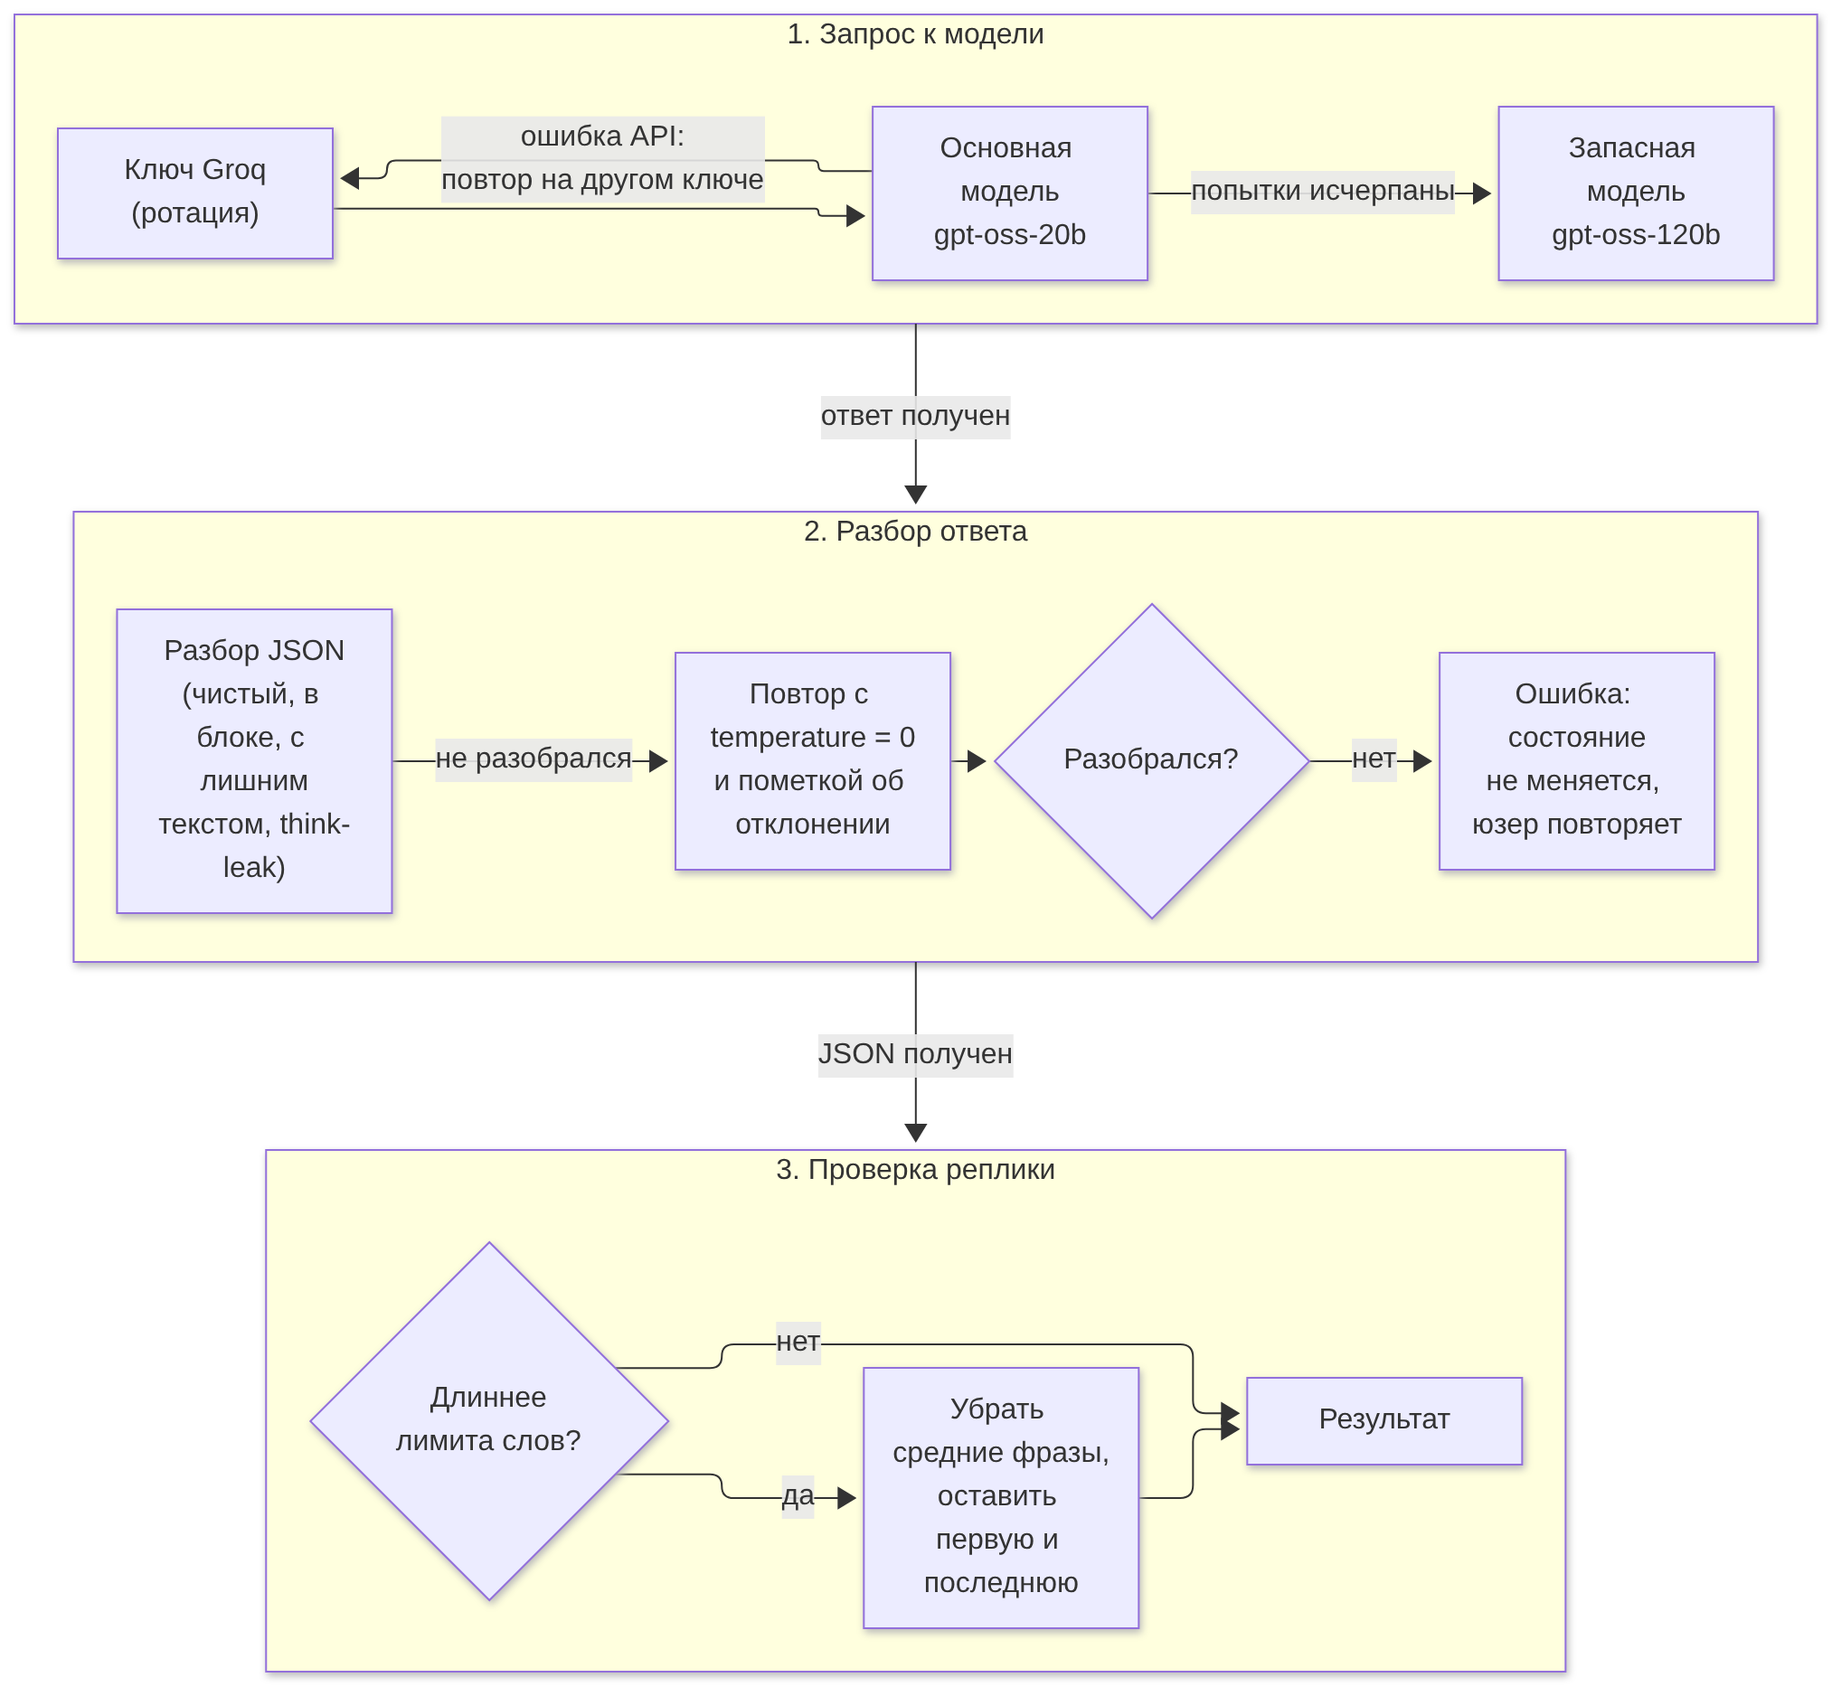
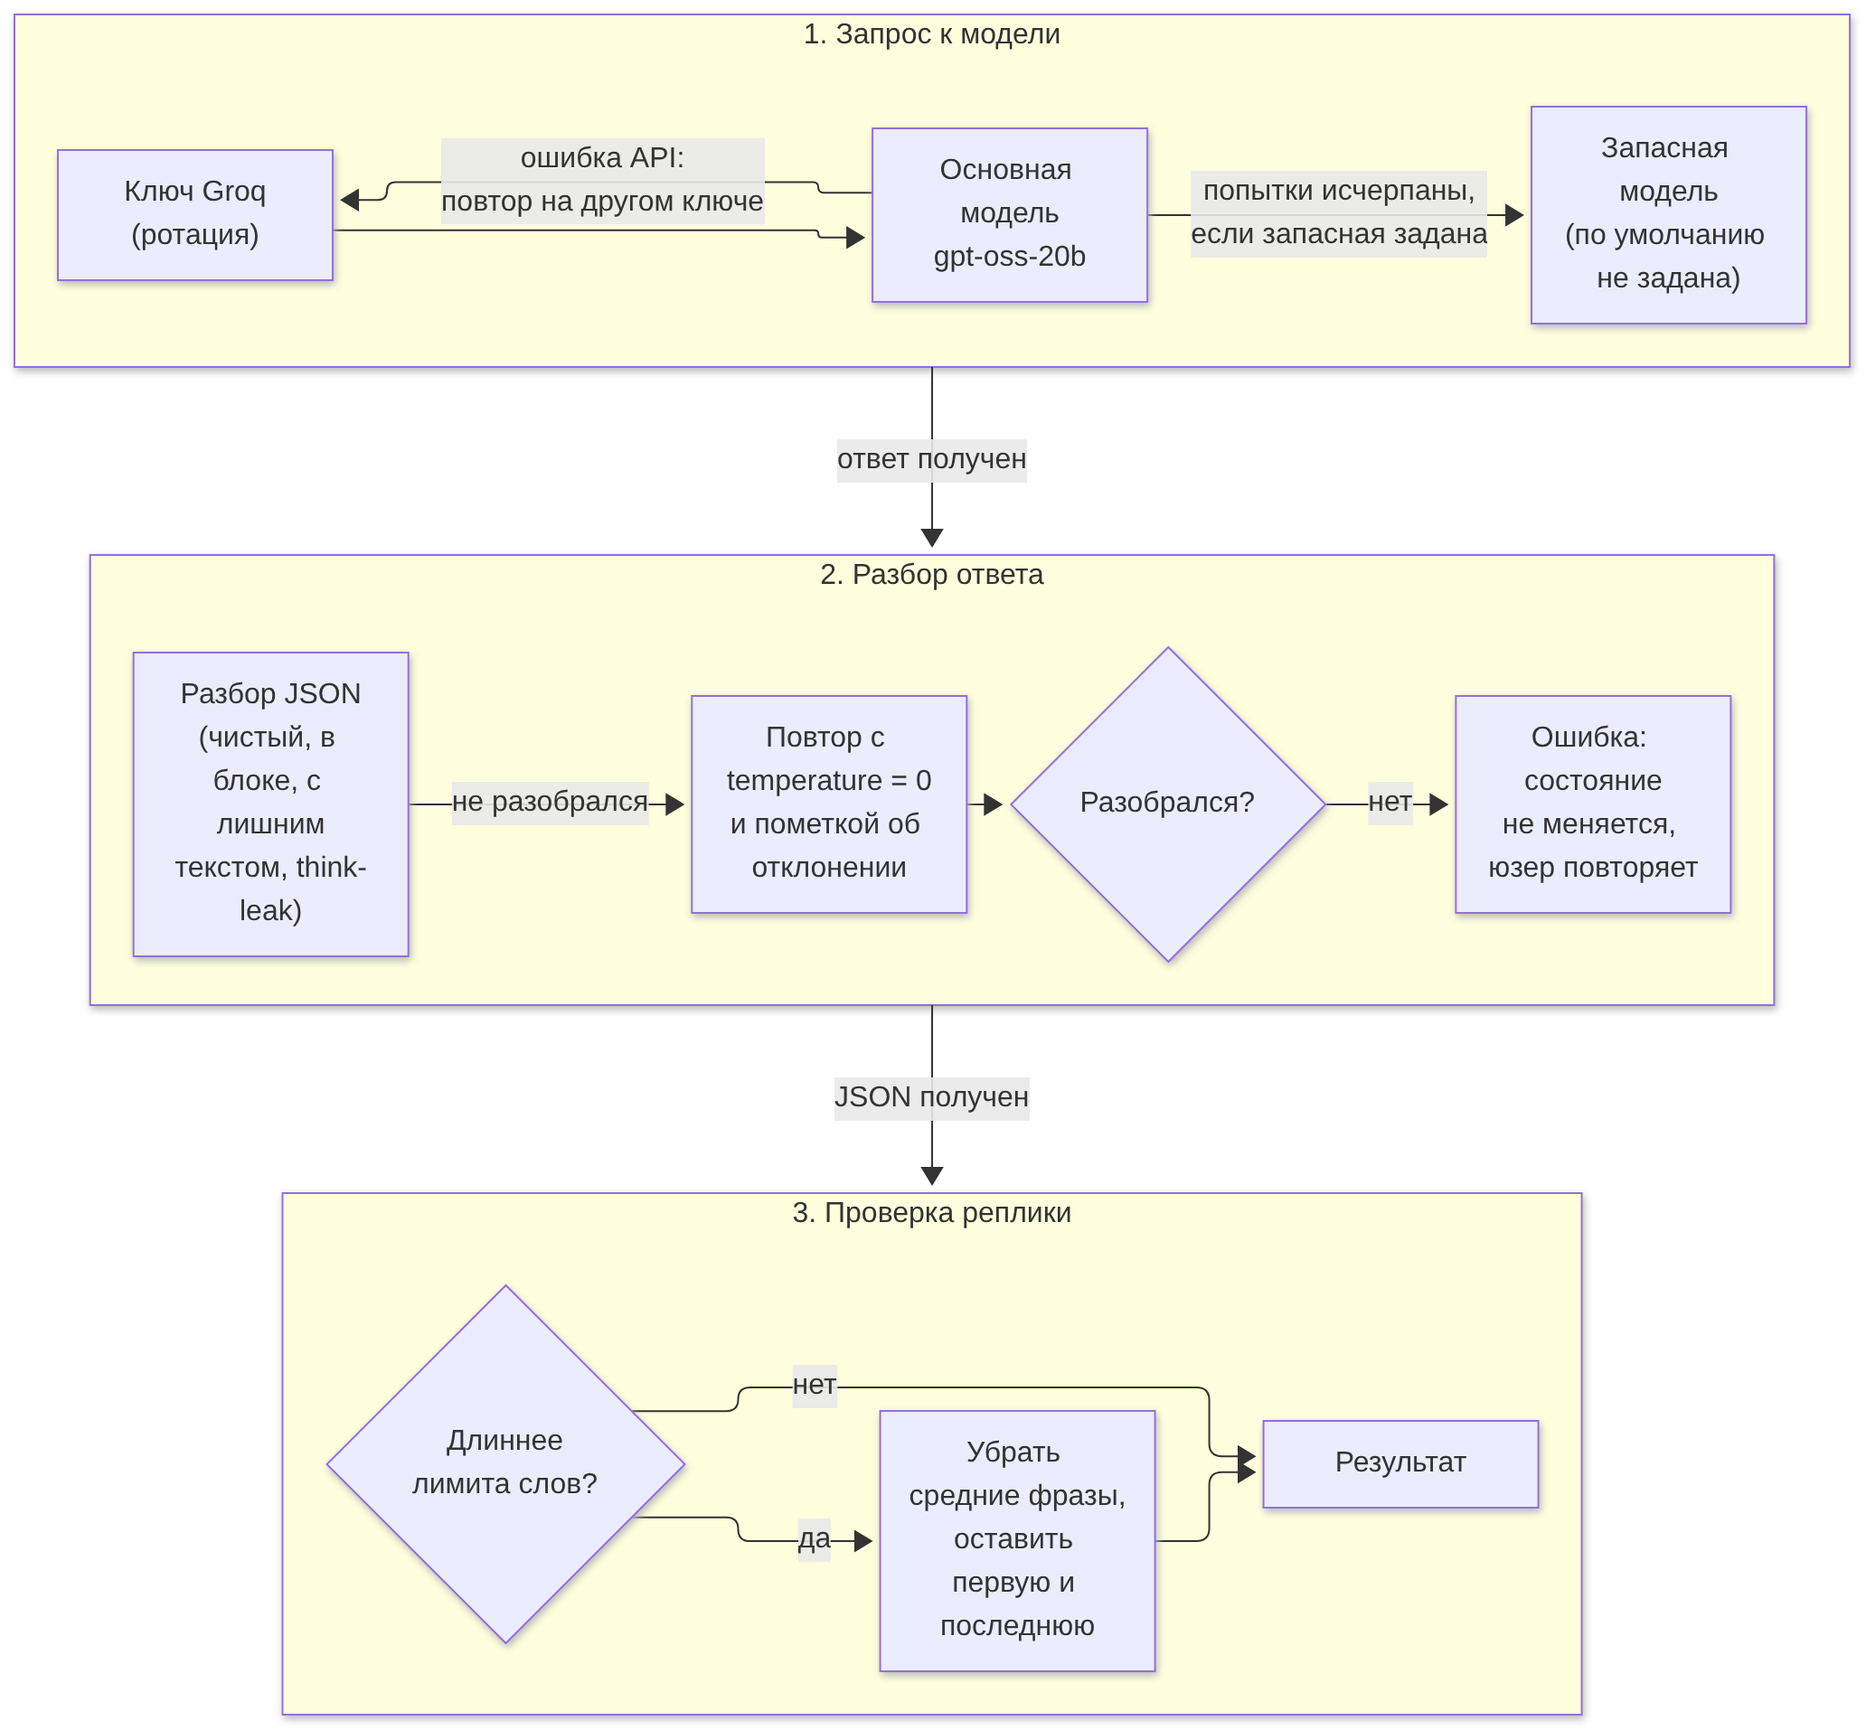
Use only gpt-oss-20b by default: no fallback model
gpt-oss-120b performed worse with reasoning and JSON and failed the same way
as 20b in production logs. GROQ_MODEL_FALLBACK now defaults to empty; it can
still be set. Docs, tests and the LLM resilience diagram updated.

Claude-Session: https://claude.ai/code/session_01MVpCHEDUPoqUcU1URESrKm

diff --git a/src/config.py b/src/config.py
@@ -11,9 +11,10 @@ class Settings(BaseSettings):
     PORT: int = 10000
 
     # Модели Groq (смена модели = смена переменной окружения, без правки кода)
-    # По умолчанию дешёвые модели (экономия, пока бот бесплатный); тяжёлая 120b — запасная.
+    # По умолчанию только дешёвая gpt-oss-20b (экономия, пока бот бесплатный). Запасной
+    # модели нет: 120b на практике хуже справляется с рассуждением и JSON.
     GROQ_MODEL: str = "openai/gpt-oss-20b"
-    GROQ_MODEL_FALLBACK: str = "openai/gpt-oss-120b"  # пусто = без запасной модели
+    GROQ_MODEL_FALLBACK: str = ""                     # пусто = без запасной модели
     GROQ_MODEL_LIGHT: str = "openai/gpt-oss-20b"      # простые задачи (перевод)
     GROQ_TTS_MODEL: str = "canopylabs/orpheus-v1-english"
     GROQ_STT_MODEL: str = "whisper-large-v3-turbo"

diff --git a/tests/test_runtime_settings.py b/tests/test_runtime_settings.py
@@ -16,10 +16,10 @@ def clean_cache():
 
 def test_defaults_are_cheap_models_and_auto_stt():
     assert settings.GROQ_MODEL == "openai/gpt-oss-20b"
-    assert settings.GROQ_MODEL_FALLBACK == "openai/gpt-oss-120b"
+    assert settings.GROQ_MODEL_FALLBACK == ""  # запасной модели нет, только 20b
     assert settings.GROQ_STT_MODEL == "whisper-large-v3-turbo"
-    assert GroqClient._models() == ["openai/gpt-oss-20b", "openai/gpt-oss-120b"]
-    assert GroqClient._light_models() == ["openai/gpt-oss-20b", "openai/gpt-oss-120b"]
+    assert GroqClient._models() == ["openai/gpt-oss-20b"]
+    assert GroqClient._light_models() == ["openai/gpt-oss-20b"]
     assert asyncio.run(runtime_settings.stt_provider()) == "auto"
     assert asyncio.run(runtime_settings.tts_enabled()) is True
 

diff --git a/README.md b/README.md
@@ -28,7 +28,7 @@ Telegram-бот: каждый день один разговор с учител
 
 - Python / [aiogram](https://docs.aiogram.dev/) 3, long polling
 - Postgres ([Supabase](https://supabase.com) в проде, Docker локально) через `asyncpg`, без ORM
-- Groq API (`openai/gpt-oss-20b`, запасная `gpt-oss-120b`) для ответов и Summary, распознавание речи: Google (бесплатно) и/или Whisper `whisper-large-v3-turbo` на Groq, `canopylabs/orpheus-v1-english` для TTS
+- Groq API (`openai/gpt-oss-20b`) для ответов и Summary, распознавание речи: Google (бесплатно) и/или Whisper `whisper-large-v3-turbo` на Groq, `canopylabs/orpheus-v1-english` для TTS
 
 ## Структура
 
@@ -133,7 +133,7 @@ Long polling. Free Web Service засыпает после 15 минут без 
 | `ADMIN_IDS` | нет | пусто | Telegram id админов через запятую |
 | `PORT` | нет | `10000` | порт `/health` (на Render задаётся автоматически) |
 | `GROQ_MODEL` | нет | `openai/gpt-oss-20b` | основная модель |
-| `GROQ_MODEL_FALLBACK` | нет | `openai/gpt-oss-120b` | запасная модель (пусто = без запасной) |
+| `GROQ_MODEL_FALLBACK` | нет | пусто | запасная модель (пусто = без запасной, бот работает только на `GROQ_MODEL`) |
 | `GROQ_MODEL_LIGHT` | нет | `openai/gpt-oss-20b` | лёгкая модель (перевод) |
 | `GROQ_REASONING_EFFORT` | нет | `low` | глубина рассуждения gpt-oss (`low`/`medium`/`high`); пусто для моделей не из семейства gpt-oss |
 | `GROQ_STT_MODEL` | нет | `whisper-large-v3-turbo` | Whisper на Groq |
@@ -152,9 +152,11 @@ Long polling. Free Web Service засыпает после 15 минут без 
 По умолчанию стоят дешёвые модели (бот пока бесплатный):
 
 - `GROQ_MODEL` (по умолчанию `openai/gpt-oss-20b`): ответы МС и Summary;
-- `GROQ_MODEL_FALLBACK` (`openai/gpt-oss-120b`): запасная, более тяжёлая
-  модель, на неё бот переходит, когда основная не отвечает. Пусто = без
-  запасной;
+- `GROQ_MODEL_FALLBACK` (по умолчанию пусто): запасная модель, на неё бот
+  переходит, когда основная не отвечает. Пусто = без запасной, бот работает
+  только на `gpt-oss-20b` (по умолчанию: `gpt-oss-120b` на практике хуже
+  справляется с рассуждением и JSON). Если понадобится, задайте например
+  `openai/gpt-oss-120b`;
 - `GROQ_MODEL_LIGHT` (`openai/gpt-oss-20b`): простые задачи, перевод;
 - `GROQ_STT_MODEL` (`whisper-large-v3-turbo`), `GROQ_TTS_MODEL`:
   Whisper на Groq и озвучка;
@@ -164,10 +166,10 @@ Long polling. Free Web Service засыпает после 15 минут без 
 Как сменить модель: поменять переменную в Render (Environment) и
 перезапустить сервис. Что проверить после смены: в админке
 **⚠ Generation (24h)** не растут `bad_json` и `error`, `fallback_used`
-редкий; пара живых сессий звучит нормально. Чтобы сделать запасную
-`gpt-oss-120b` основной (если 20b не справляется с качеством реплик),
-поменяйте местами `GROQ_MODEL` и `GROQ_MODEL_FALLBACK`. Решение
-принимать по данным из этого блока, а не заранее.
+редкий (без запасной модели его не будет совсем); пара живых сессий звучит
+нормально. Если 20b не справляется с качеством реплик, укажите другую
+модель в `GROQ_MODEL`. Решение принимать по данным из этого блока, а не
+заранее.
 
 Объём контекста тоже настраивается: `CONTEXT_MESSAGES` (по умолчанию 24,
 то есть вся сессия) и `SS4T_CONTEXT` (3). Для оценки: к последнему ходу

diff --git a/docs/ARCHITECTURE.md b/docs/ARCHITECTURE.md
@@ -215,7 +215,7 @@ flowchart TB
         direction LR
         KEY["Ключ Groq<br/>(ротация)"] --> M1["Основная модель<br/>gpt-oss-20b"]
         M1 -- "ошибка API:<br/>повтор на другом ключе" --> KEY
-        M1 -- "попытки исчерпаны" --> M2["Запасная модель<br/>gpt-oss-120b"]
+        M1 -- "попытки исчерпаны,<br/>если запасная задана" --> M2["Запасная модель<br/>(по умолчанию не задана)"]
     end
     subgraph PARSE["2. Разбор ответа"]
         direction LR
@@ -240,7 +240,7 @@ flowchart TB
 
 Модели и режимы задаются переменными окружения (`GROQ_MODEL`,
 `GROQ_MODEL_FALLBACK`, `GROQ_MODEL_LIGHT`, ...). По умолчанию стоят дешёвые
-модели; тяжёлая используется как запасная.
+модели; запасная модель по умолчанию не задана (`GROQ_MODEL_FALLBACK`).
 
 ## 8. Распознавание речи
 
@@ -420,14 +420,14 @@ flowchart LR
 | Фоновый цикл внутри процесса | Нет отдельного планировщика на бесплатном хостинге | Цикл работает, только пока жив процесс |
 | Прямой `asyncpg`, без ORM | Весь SQL виден, нет привязки к провайдеру БД | Больше ручного SQL |
 | Распознавание Auto: Google, затем Whisper | Бесплатно по умолчанию, с запасным путём | Неофициальное API; качество стоит сравнить |
-| Дешёвые модели по умолчанию, тяжёлая как запасная | Экономия, пока бот бесплатный | Качество реплик нужно проверить на живых данных |
+| Только дешёвая `gpt-oss-20b`, без запасной модели | Экономия, пока бот бесплатный | Качество реплик нужно проверить на живых данных |
 
 ## 14. Устойчивость к сбоям
 
 | Сбой | Поведение |
 |---|---|
 | Ключ Groq упёрся в лимит | Ротация на следующий ключ |
-| Основная модель не отвечает | Переход на запасную |
+| Основная модель не отвечает | Повторы на других ключах; переход на запасную модель, если она задана |
 | Модель вернула не JSON, think-leak | Мягкий разбор, повтор с `temperature = 0` |
 | Все попытки провалились | Состояние сессии не меняется, юзер повторяет сообщение |
 | Реплика длиннее лимита слов | Код убирает средние фразы |

diff --git a/PLAN.md b/PLAN.md
@@ -342,9 +342,11 @@ tests/                   # pytest: unit + сценарии сессии на Pos
 
 Пока бот бесплатный, приоритет — минимальные расходы.
 
-- **Дешёвые модели по умолчанию:** чат `gpt-oss-20b` (запасная — тяжёлая
-  `gpt-oss-120b`), перевод `gpt-oss-20b`, Whisper — `whisper-large-v3-turbo`.
-  Всё переопределяется переменными окружения.
+- **Дешёвые модели по умолчанию:** чат и перевод `gpt-oss-20b`, Whisper —
+  `whisper-large-v3-turbo`. Запасной модели нет (2026-11-08: `gpt-oss-120b`
+  на практике хуже справлялась с рассуждением и JSON, давала тот же сбой).
+  Всё переопределяется переменными окружения, запасную можно вернуть
+  через `GROQ_MODEL_FALLBACK`.
 - **Режим распознавания речи** выбирается в `/admin → Settings`, хранится
   в `app_settings` (`001_init.sql`), действует без рестарта. По умолчанию
   **Auto**: сначала бесплатный Google, при неудаче Whisper. Режимы Google
